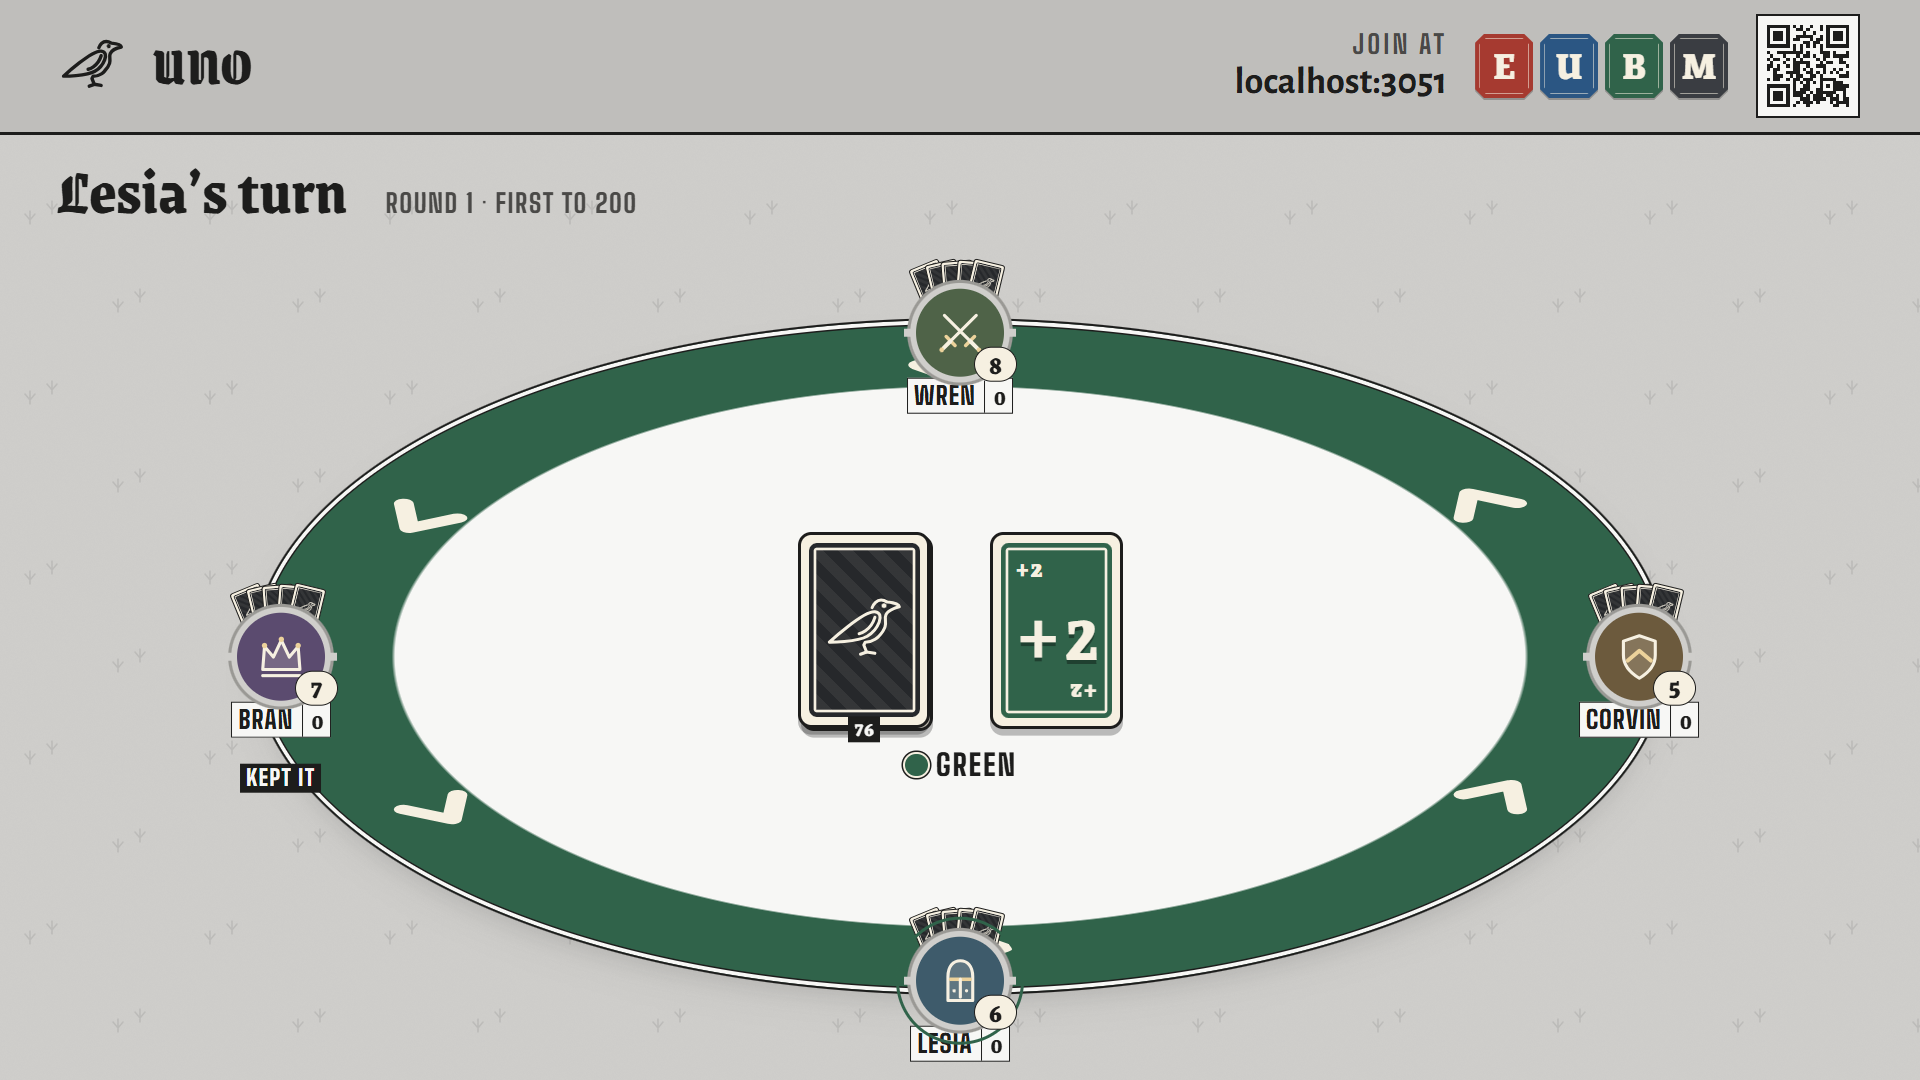
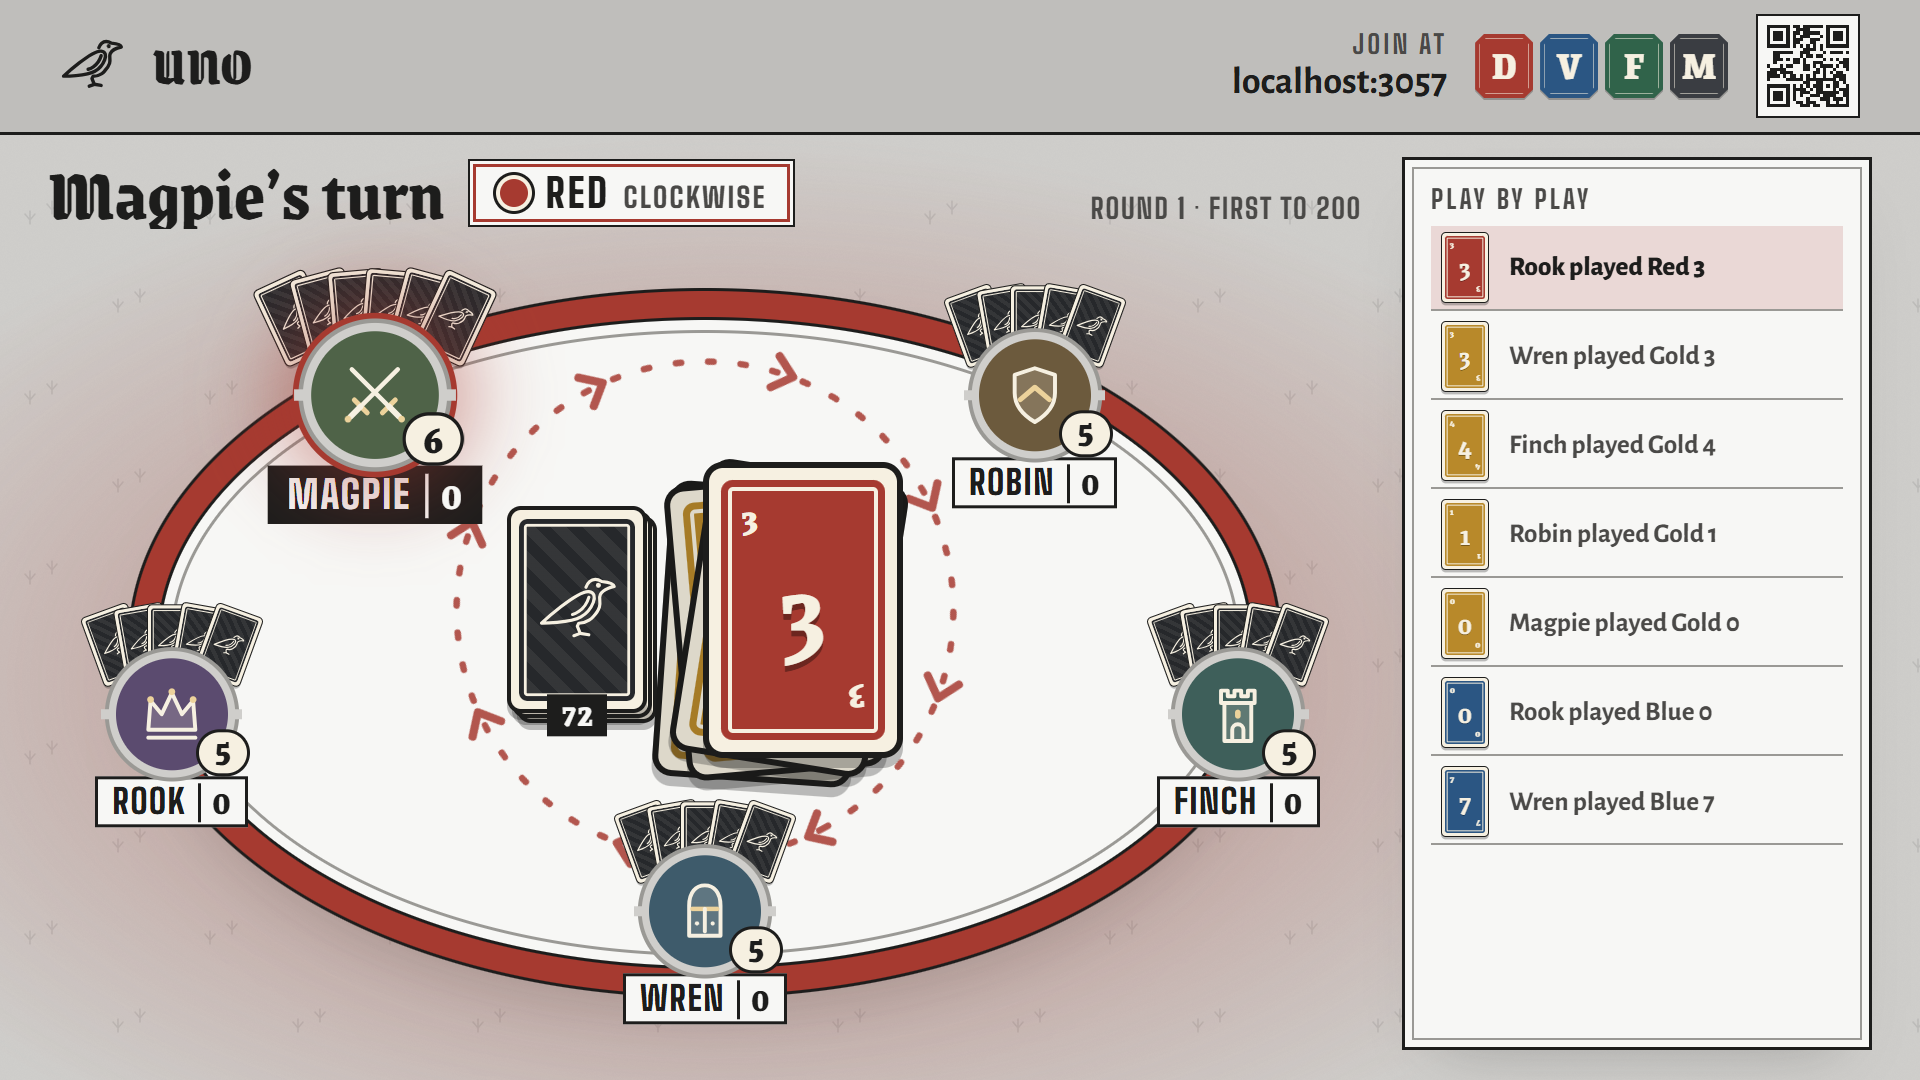
fix(uno): the TV picture is a desktop picture, so main builds again
The UI polish renamed pictures' `wide` to `desktop`; UNO, merged alongside, still said
`wide`, which failed the type check and the Vercel build. The picture is now the new TV.

diff --git a/packages/games/uno/src/ui/index.tsx b/packages/games/uno/src/ui/index.tsx
@@ -28,8 +28,8 @@ export const unoUi: GameUi = {
       },
       {
         src: '/games/uno/tv.png',
-        alt: 'UNO on a TV: the oval mat with every player, how many cards each holds, both piles and the colour in play.',
-        wide: true,
+        alt: 'UNO on a TV: the room washed in the colour in play, the piles large in the middle, every player’s hand fanned face down round the table, and the play by play.',
+        desktop: true,
       },
     ],
   },
